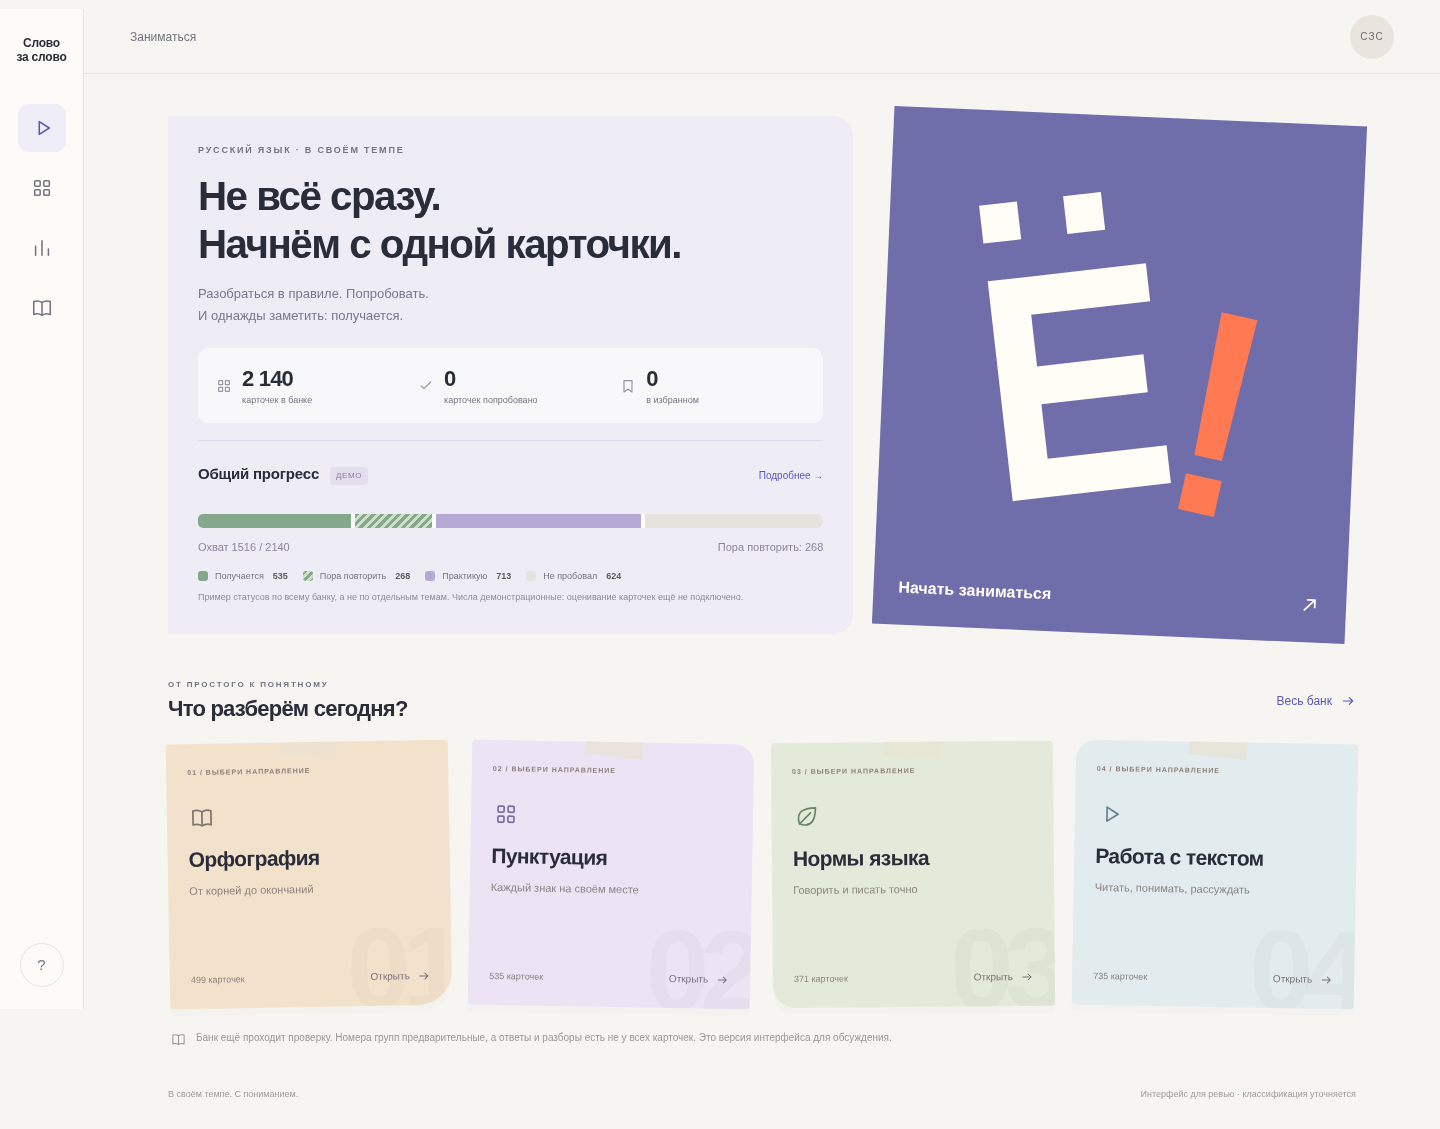
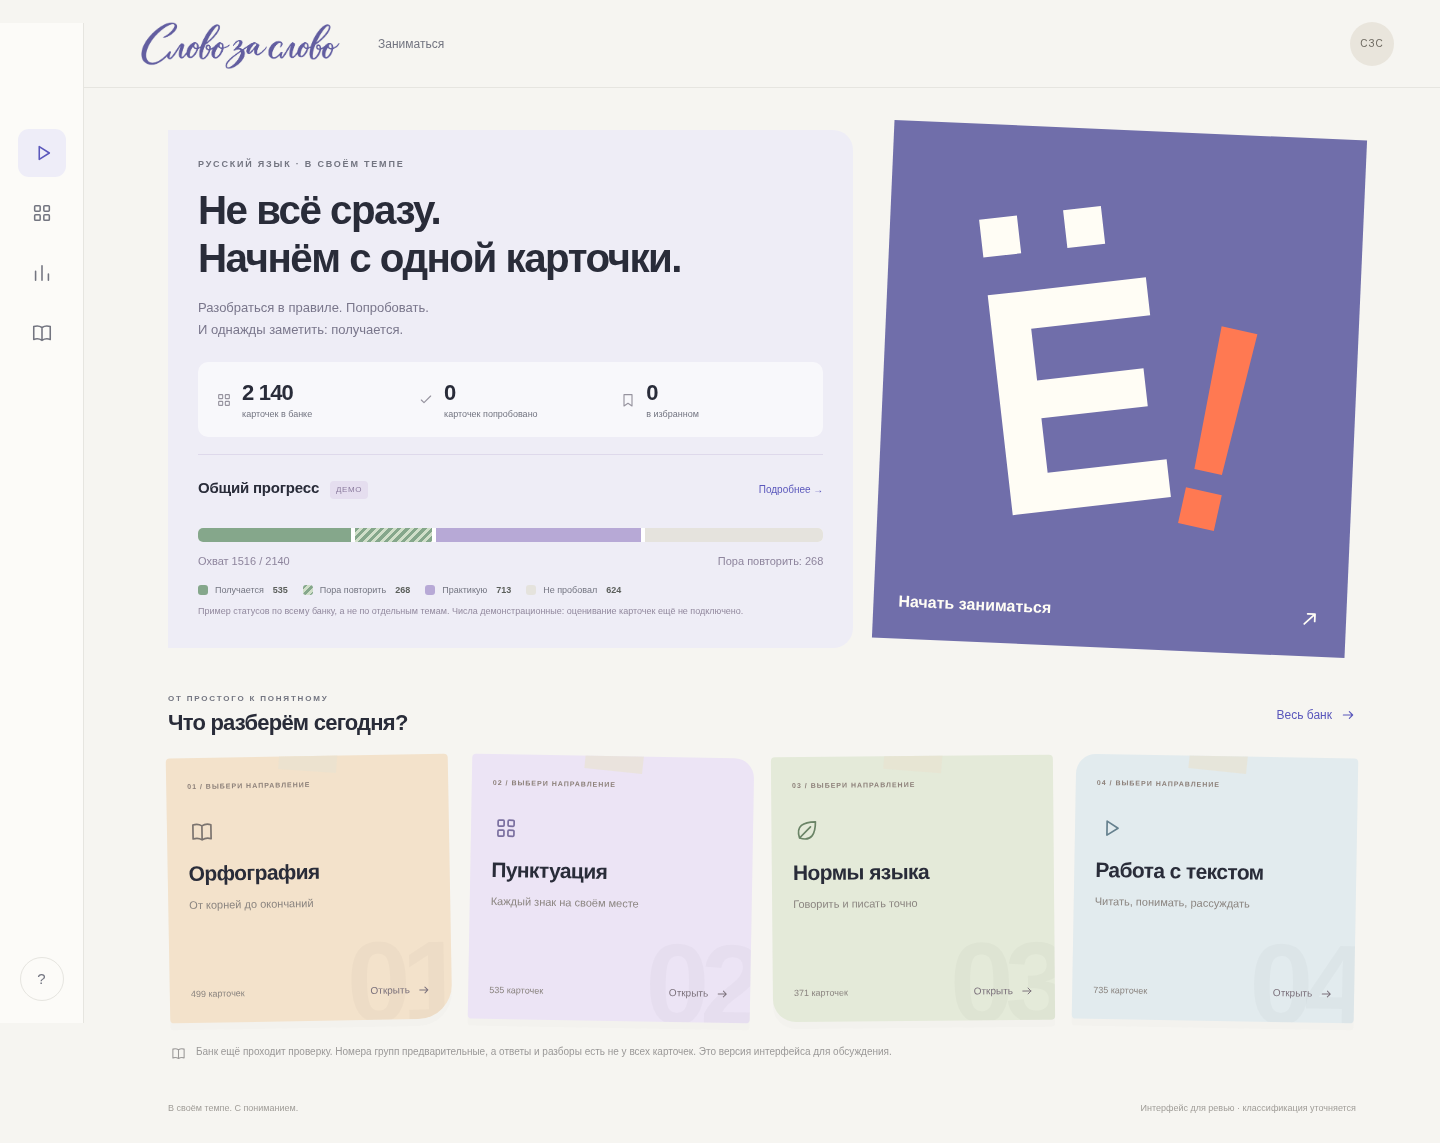
brand: add calligraphic wordmark to responsive site header

diff --git a/html/index.html b/html/index.html
@@ -15,12 +15,6 @@
   <body>
     <a class="skip-link" href="#main">Перейти к содержимому</a>
     <aside class="sidebar" aria-label="Основная навигация">
-      <a class="brand" href="#study" aria-label="Слово за слово — главная"
-        ><span class="brand-mark">с<span>с</span></span
-        ><span class="brand-name"
-          >Слово<br />за слово<small>Русский шаг за шагом</small></span
-        ></a
-      >
       <div class="sidebar-label">ВАШЕ ПРОСТРАНСТВО</div>
       <nav id="desktop-nav"></nav>
       <div class="sidebar-note">
@@ -39,9 +33,18 @@
     </aside>
     <div class="workspace">
       <header class="topbar">
-        <a href="#study" class="mobile-brand"
-          ><span class="mobile-wordmark">Слово<br />за слово</span></a
-        ><span class="breadcrumb" id="breadcrumb">Заниматься</span>
+        <div class="topbar-identity">
+          <a
+            class="site-logo"
+            href="#study"
+            aria-label="Слово за слово — главная"
+            ><img
+              src="assets/brand/slovo-za-slovo.png"
+              alt="Слово за слово"
+              width="2172"
+              height="724" /></a
+          ><span class="breadcrumb" id="breadcrumb">Заниматься</span>
+        </div>
         <div class="topbar-right">
           <button
             class="avatar"

diff --git a/html/css/app.css b/html/css/app.css
@@ -3301,3 +3301,65 @@ dialog form {
     font-size: 16px;
   }
 }
+/* Full calligraphic wordmark stays legible outside the compact icon rail. */
+.topbar-identity {
+  display: flex;
+  align-items: center;
+  gap: 28px;
+  min-width: 0;
+}
+.site-logo {
+  display: flex;
+  align-items: center;
+  justify-content: center;
+  width: 220px;
+  min-height: 64px;
+  flex-shrink: 0;
+}
+.site-logo img {
+  display: block;
+  width: 100%;
+  height: auto;
+  max-height: 68px;
+  object-fit: contain;
+}
+.topbar {
+  height: 88px;
+}
+.sidebar {
+  padding-top: 106px;
+}
+.topbar-identity .breadcrumb {
+  white-space: nowrap;
+}
+@media (max-width: 760px) {
+  .topbar {
+    height: 80px;
+  }
+  .topbar-identity {
+    gap: 0;
+    min-width: 0;
+  }
+  .site-logo {
+    width: 195px;
+    min-height: 60px;
+    max-width: 100%;
+  }
+  .site-logo img {
+    max-height: 64px;
+  }
+  .topbar-right {
+    flex-shrink: 0;
+  }
+  .topbar {
+    gap: 15px;
+  }
+}
+@media (max-width: 360px) {
+  .site-logo {
+    width: 175px;
+  }
+  .topbar {
+    gap: 12px;
+  }
+}

diff --git a/tests/composed_home_smoke.py b/tests/composed_home_smoke.py
@@ -29,6 +29,8 @@ def main():
                 page.set_viewport_size({'width': width, 'height': 1000 if width > 760 else 844})
                 page.goto(base, wait_until='networkidle')
                 assert page.locator('.study-poster').is_visible()
+                assert page.locator('.site-logo img').evaluate('e => e.complete && e.naturalWidth > 0')
+                assert page.locator('.site-logo img').get_attribute('alt') == 'Слово за слово'
                 assert page.locator('.poster-cta').inner_text() == 'Начать заниматься'
                 assert 'В ЭТОМ НОМЕРЕ' not in page.locator('.study-poster').inner_text()
                 assert 'ТОЧКА ОПОРЫ' not in page.locator('.study-poster').inner_text()

diff --git a/scripts/check_pages_artifact.py b/scripts/check_pages_artifact.py
@@ -14,6 +14,7 @@ def check(root):
     required = [
         'index.html', 'css/app.css', 'js/app.js', 'js/data.js', 'js/store.js',
         'js/services.js', 'js/progress-preview.js', 'assets/data/catalog.json',
+        'assets/brand/slovo-za-slovo.png',
     ]
     for relative in required:
         path = root / relative

diff --git a/docs/composed-home.md b/docs/composed-home.md
@@ -40,3 +40,7 @@
 ## Движение заметок
 
 При наведении мышью заметка плавно поднимается на 4 px за 360 мс, сохраняя свой наклон; при уходе возвращается тем же переходом. Нет постоянного покачивания. На сенсорных устройствах hover-движение не включается; предпочтение reduced-motion отключает анимацию. Фокус клавиатуры остаётся заметным.
+
+## Логотип
+
+В шапке всех экранов установлен сгенерированный каллиграфический логотип «Слово за слово» на прозрачном фоне. Исходный PNG без изменения изображения — html/assets/brand/slovo-za-slovo.png. Размер отображения адаптируется CSS; клик возвращает к занятиям. Текстовое alt и доступное название ссылки сохранены. Логотип вынесен из узкой панели иконок в шапку для читаемости на компьютере и телефоне.
